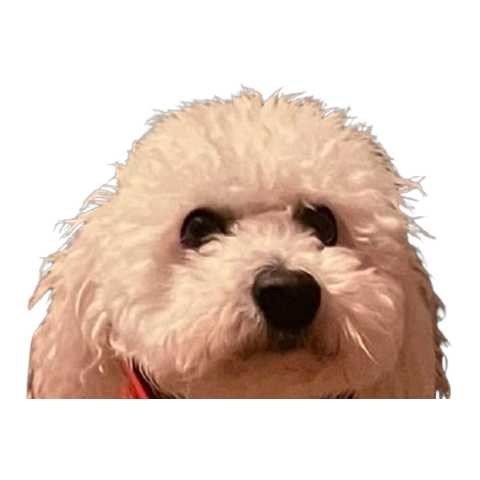
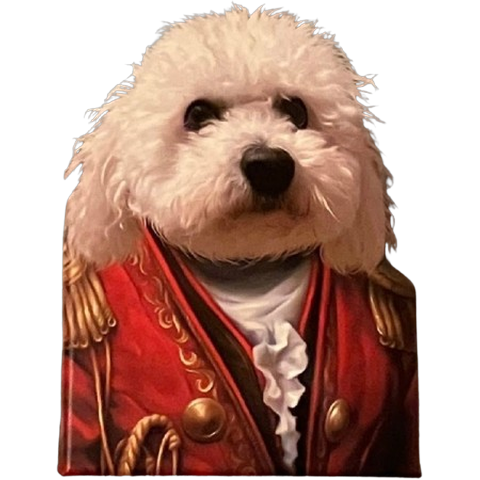
Add files via upload

diff --git a/js/games/tir.js b/js/games/tir.js
@@ -49,6 +49,59 @@ window.PoupiTir = (function () {
   let keys = {};
   let audioCtx;
 
+  // Aboiement joué quand un Mourier (classique ou géant) est tué : fichier réel
+  // fourni par Rémi (plutôt qu'un son synthétisé). new Audio() à chaque appel pour
+  // permettre plusieurs aboiements qui se chevauchent en tir rapide.
+  const BARK_SRC = "assets/audio/aboiement.mp3";
+  // Rugissement d'ambiance des Mourier géants : un des deux sons au hasard à
+  // l'apparition, en boucle jusqu'à ce que CE géant précis disparaisse (tué,
+  // arrivé en bas, ou nettoyé par la bombe). Plusieurs géants en même temps =
+  // plusieurs instances qui jouent en canon (activeRoars les garde toutes en vie).
+  const GIANT_ROAR_SRCS = ["assets/audio/gros-mourier-1.mp3", "assets/audio/gros-mourier-2.mp3"];
+  let activeRoars = [];
+
+  function playKillBark() {
+    try {
+      const a = new Audio(BARK_SRC);
+      a.volume = 0.85;
+      a.play().catch(() => {});
+    } catch (e) {}
+  }
+
+  function playGiantRoar() {
+    try {
+      const src = GIANT_ROAR_SRCS[Math.floor(Math.random() * GIANT_ROAR_SRCS.length)];
+      const a = new Audio(src);
+      a.loop = true;
+      a.volume = 0.55;
+      a.play().catch(() => {});
+      activeRoars.push(a);
+      return a;
+    } catch (e) {
+      return null;
+    }
+  }
+
+  function stopGiantRoar(a) {
+    if (!a) return;
+    try {
+      a.pause();
+      a.currentTime = 0;
+    } catch (e) {}
+    const idx = activeRoars.indexOf(a);
+    if (idx !== -1) activeRoars.splice(idx, 1);
+  }
+
+  function stopAllRoars() {
+    activeRoars.forEach((a) => {
+      try {
+        a.pause();
+        a.currentTime = 0;
+      } catch (e) {}
+    });
+    activeRoars = [];
+  }
+
   function loadImages() {
     shipImg = new Image();
     enemyImg = new Image();
@@ -67,72 +120,6 @@ window.PoupiTir = (function () {
       if (Ctx) audioCtx = new Ctx();
     }
     return audioCtx;
-  }
-
-  // Aboiement synthétisé (pas de fichier audio nécessaire), v3 : conçu et vérifié
-  // par analyse de spectrogramme pour reproduire la signature d'un vrai aboiement
-  // (contour harmonique descendant ~600Hz→160Hz sur ~120ms + salve de bruit large
-  // bande à l'attaque), plutôt qu'un simple bruit filtré ou une tonalité pure —
-  // deux impulsions rapprochées pour un "wouf-wouf".
-  function playBark() {
-    const ac = getAudioCtx();
-    if (!ac) return;
-    try {
-      const now = ac.currentTime;
-      [0, 0.14].forEach((offset, idx) => {
-        const t0 = now + offset;
-        const dur = idx === 0 ? 0.16 : 0.13;
-
-        // Corps tonal : onde carrée (riche en harmoniques) avec chute de
-        // fréquence rapide 620→160Hz, filtrée par un passe-bas qui se ferme en
-        // même temps (effet "gueule qui se referme") — c'est ce contour qui
-        // rend le son identifiable comme un aboiement plutôt qu'un bip.
-        const osc = ac.createOscillator();
-        osc.type = "square";
-        osc.frequency.setValueAtTime(620, t0);
-        osc.frequency.exponentialRampToValueAtTime(160, t0 + dur * 0.75);
-
-        const oscFilter = ac.createBiquadFilter();
-        oscFilter.type = "lowpass";
-        oscFilter.frequency.setValueAtTime(3200, t0);
-        oscFilter.frequency.exponentialRampToValueAtTime(500, t0 + dur);
-        oscFilter.Q.value = 2;
-
-        const oscGain = ac.createGain();
-        oscGain.gain.setValueAtTime(0.0001, t0);
-        oscGain.gain.exponentialRampToValueAtTime(0.4, t0 + 0.008);
-        oscGain.gain.exponentialRampToValueAtTime(0.08, t0 + dur * 0.5);
-        oscGain.gain.exponentialRampToValueAtTime(0.0001, t0 + dur);
-
-        osc.connect(oscFilter).connect(oscGain).connect(ac.destination);
-        osc.start(t0);
-        osc.stop(t0 + dur);
-
-        // Petite salve de bruit large bande à l'attaque (les 20 premières ms) :
-        // le "pop" percussif du début d'un vrai aboiement.
-        const popDur = 0.02;
-        const bufferSize = Math.max(1, Math.floor(ac.sampleRate * popDur));
-        const buffer = ac.createBuffer(1, bufferSize, ac.sampleRate);
-        const data = buffer.getChannelData(0);
-        for (let i = 0; i < bufferSize; i++) {
-          data[i] = (Math.random() * 2 - 1) * Math.pow(1 - i / bufferSize, 1.2);
-        }
-        const noise = ac.createBufferSource();
-        noise.buffer = buffer;
-
-        const noiseFilter = ac.createBiquadFilter();
-        noiseFilter.type = "highpass";
-        noiseFilter.frequency.value = 700;
-
-        const noiseGain = ac.createGain();
-        noiseGain.gain.setValueAtTime(0.28, t0);
-        noiseGain.gain.exponentialRampToValueAtTime(0.0001, t0 + popDur);
-
-        noise.connect(noiseFilter).connect(noiseGain).connect(ac.destination);
-        noise.start(t0);
-        noise.stop(t0 + popDur);
-      });
-    } catch (e) {}
   }
 
   // Grosse explosion pour la bombe ☢️ : crack initial + grondement grave longue
@@ -198,6 +185,7 @@ window.PoupiTir = (function () {
   }
 
   function resetState() {
+    stopAllRoars(); // filet de sécurité si une partie précédente avait des géants en vie
     shipX = W / 2;
     bullets = [];
     enemies = [];
@@ -299,6 +287,7 @@ window.PoupiTir = (function () {
         pattern: "straight",
         hp: 3,
         maxHp: 3,
+        roarAudio: playGiantRoar(),
       });
       return;
     }
@@ -349,6 +338,7 @@ window.PoupiTir = (function () {
       let cleared = 0;
       for (let i = enemies.length - 1; i >= 0; i--) {
         if (enemies[i].type !== "cat") {
+          if (enemies[i].type === "giant") stopGiantRoar(enemies[i].roarAudio);
           fx.push({ x: enemies[i].x, y: enemies[i].y, life: 26, big: true });
           enemies.splice(i, 1);
           cleared++;
@@ -368,6 +358,7 @@ window.PoupiTir = (function () {
 
   function endGame() {
     running = false;
+    stopAllRoars(); // les géants encore à l'écran au moment du game over ne doivent pas continuer à rugir
     statusEl.textContent = `💥 Partie terminée — Score : ${score} (${kills} Mourier touchés). Relance pour améliorer ton score du jour !`;
     startBtn.textContent = "▶ Rejouer";
     startBtn.disabled = false;
@@ -463,10 +454,11 @@ window.PoupiTir = (function () {
             e.hp--;
             fx.push({ x: b.x, y: b.y, life: 10 });
             if (e.hp <= 0) {
+              if (e.type === "giant") stopGiantRoar(e.roarAudio);
               enemies.splice(i, 1);
               score += e.type === "giant" ? 40 : 10;
               kills++;
-              playBark();
+              playKillBark();
               if (Math.random() < (e.type === "giant" ? 0.35 : 0.15)) spawnPowerup(e.x, e.y);
             }
           }
@@ -481,9 +473,11 @@ window.PoupiTir = (function () {
       const e = enemies[i];
       const half = enemySize(e) / 2;
       if (e.y > H + half) {
+        if (e.type === "giant") stopGiantRoar(e.roarAudio);
         enemies.splice(i, 1);
         if (e.type !== "cat" && shieldUntil <= now) lives--; // les chats qui passent ne pénalisent pas
       } else if (e.type !== "cat" && dist(e.x, e.y, shipX, shipY) < (enemySize(e) + SHIP_SIZE) / 2.6) {
+        if (e.type === "giant") stopGiantRoar(e.roarAudio);
         enemies.splice(i, 1);
         if (shieldUntil <= now) {
           lives--;

diff --git a/js/games/morpion.js b/js/games/morpion.js
@@ -1,5 +1,7 @@
 // Morpion — le joueur incarne Poupi 🐶, l'ordinateur joue Maman Chaaaat 🐱, avec
-// leurs vraies têtes détourées comme pions. IA imbattable par minimax.
+// leurs vraies têtes détourées comme pions. IA minimax volontairement imparfaite :
+// ~25% du temps elle joue un coup légal au hasard plutôt que le coup optimal, pour
+// que la partie reste gagnable (une IA minimax parfaite ne perd jamais).
 // Parties illimitées (pas de limite quotidienne pour ce jeu-là).
 window.PoupiMorpion = (function () {
   const PLAYER = "P";
@@ -59,7 +61,21 @@ window.PoupiMorpion = (function () {
     return moves.reduce((best, m) => (m.score < best.score ? m : best));
   }
 
+  // ~25% du temps, Maman Chaaaat joue un coup légal au hasard plutôt que le coup
+  // minimax optimal — sinon l'IA ne perd jamais et la partie n'est pas gagnable.
+  const AI_MISTAKE_CHANCE = 0.25;
+
   function aiMove() {
+    const legalMoves = [];
+    for (let i = 0; i < 9; i++) {
+      if (!board[i]) legalMoves.push(i);
+    }
+    if (!legalMoves.length) return;
+    if (Math.random() < AI_MISTAKE_CHANCE) {
+      const i = legalMoves[Math.floor(Math.random() * legalMoves.length)];
+      board[i] = AI;
+      return;
+    }
     const best = minimax(board.slice(), AI);
     if (best.index !== undefined) board[best.index] = AI;
   }

diff --git a/jeux.html b/jeux.html
@@ -206,13 +206,13 @@
 <script src="js/main.js?v=3"></script>
 <script src="js/games/daily.js?v=2"></script>
 <script src="js/games/scores.js?v=5"></script>
-<script src="js/games/morpion.js?v=3"></script>
+<script src="js/games/morpion.js?v=4"></script>
 <script src="js/games/motus-dict.js?v=2"></script>
 <script src="js/games/motus.js?v=5"></script>
 <script src="js/games/motsmeles.js?v=4"></script>
-<script src="js/games/memory.js?v=7"></script>
+<script src="js/games/memory.js?v=8"></script>
 <script src="js/games/demineur.js?v=4"></script>
-<script src="js/games/tir.js?v=7"></script>
+<script src="js/games/tir.js?v=8"></script>
 <script src="js/games/jeux.js?v=4"></script>
 </body>
 </html>

diff --git a/js/games/memory.js b/js/games/memory.js
@@ -5,7 +5,7 @@ window.PoupiMemory = (function () {
   // Bump si une des photos du dossier assets/poupi/ est remplacée, pour casser
   // le cache navigateur (les noms de fichiers ne changent pas d'une mise à jour
   // photo à l'autre, contrairement aux autres assets versionnés en ?v=N).
-  const PHOTO_V = "2";
+  const PHOTO_V = "3";
   const IMAGES = [
     "poupi-baby.png", "poupi-crado.png", "poupi-deg.png", "poupi-docteur.png",
     "poupi-duveteux.png", "poupi-empereur.png", "poupi-flemmasse.png", "poupi-gangsta.png",